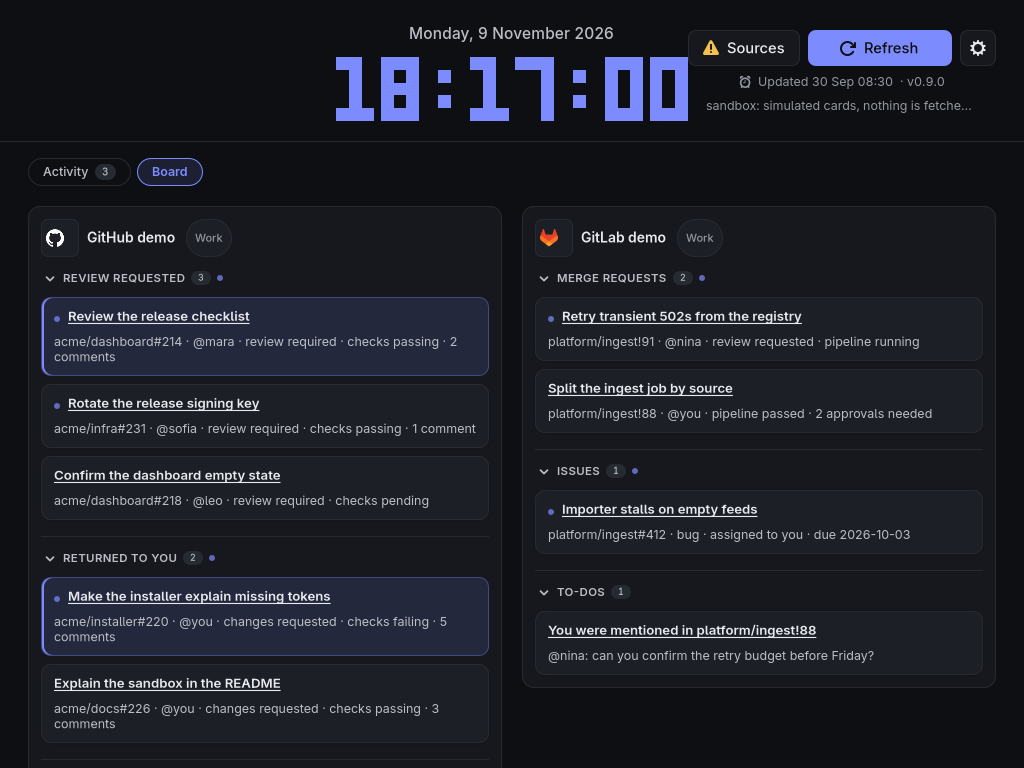
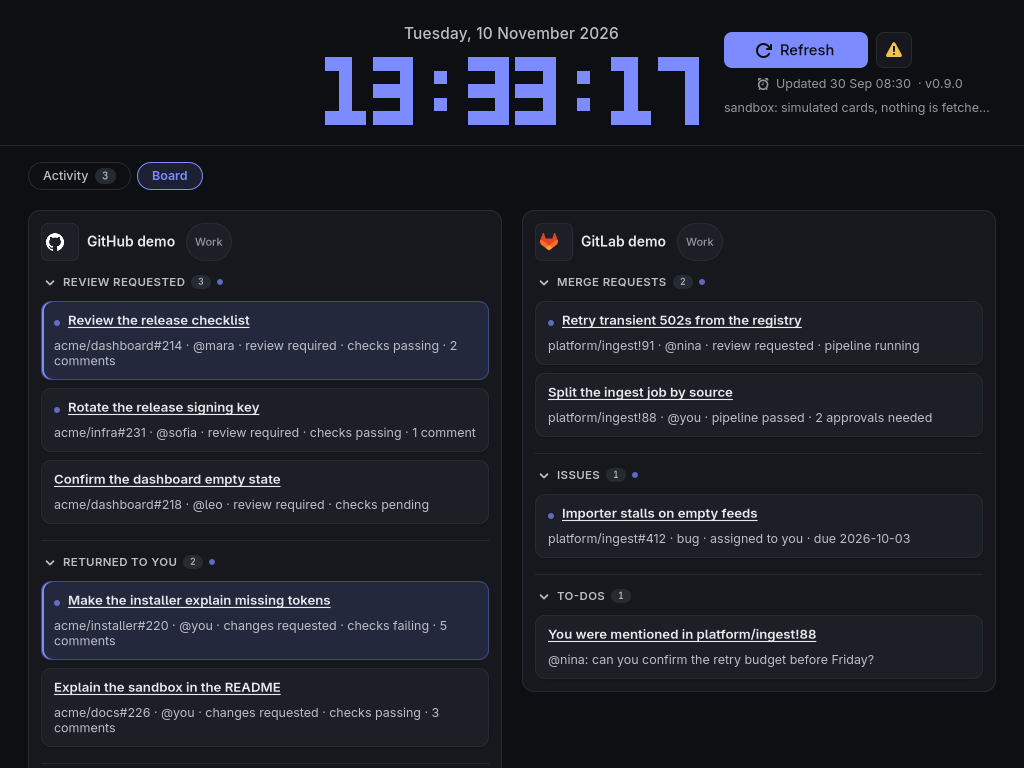
docs: keys on the cards only, Tab, the sources in Settings
The README, the operations guide and DESIGN.md say that the keyboard
focus goes to the cards and nowhere else on the page, that the arrows
move between them from anywhere and Tab switches tabs, that the focus
ring is the text colour, and that the sources head Settings, with the
gear's warning in place of the Sources button; the install guide sends
config errors to Settings. The operations guide explains the restart
note, AGENTS.md says how a new widget on the page stays out of the
focus, and the changelog's Unreleased section gains the entries. The
pictures are taken again without the Sources button, and its own
picture is gone, Settings showing the sources now.

diff --git a/docs/operations.md b/docs/operations.md
@@ -131,9 +131,9 @@ It shows events that are not over yet, starting within 30 days, at most 25, soon
 
 ## The Window
 
-`tasks-pending` opens the window. It reads the dashboard from the daemon at `http://127.0.0.1:61000` (`--daemon` for another address); when nothing answers there, it starts the sources itself on a loopback port of its own (`--no-daemon` does that on purpose) and the line under the controls says so. `tasks-pending sandbox` opens it over simulated cards and a sample weather, with nothing fetched: every kind of source on two boards, one source degraded on purpose, three cards already along the stages of the Activity and two todos written down in Picked; `--screenshot <file>` pictures it and closes, and `--scene` picks what the picture shows (`activity`, the default, `light`, `omarchy` (a made-up Omarchy theme), `board`, `sources`, `settings`, `snoozed`, `todo` or `keys`).
+`tasks-pending` opens the window. It reads the dashboard from the daemon at `http://127.0.0.1:61000` (`--daemon` for another address); when nothing answers there, it starts the sources itself on a loopback port of its own (`--no-daemon` does that on purpose) and the line under the controls says so. `tasks-pending sandbox` opens it over simulated cards and a sample weather, with nothing fetched: every kind of source on two boards, one source degraded on purpose, three cards already along the stages of the Activity and two todos written down in Picked; `--screenshot <file>` pictures it and closes, and `--scene` picks what the picture shows (`activity`, the default, `light`, `omarchy` (a made-up Omarchy theme), `board`, `settings`, `snoozed`, `todo` or `keys`).
 
-A big clock sits at the top: the date, then the local time as `HH:MM:SS` in block digits (the "bricks" font of clock-tui), redrawn each second on its own. Next to it are the **Sources**, **Refresh** and settings (gear) buttons, with the time of the last data fetch and the running version (e.g. `v0.6.0`) below them, then `· N snoozed` while cards are snoozed and `· vX.Y.Z available` when the daemon has seen a newer release. There is no header bar: the window is the dashboard.
+A big clock sits at the top: the date, then the local time as `HH:MM:SS` in block digits (the "bricks" font of clock-tui), redrawn each second on its own. Next to it are the **Refresh** and settings (gear) buttons, with the time of the last data fetch and the running version (e.g. `v0.6.0`) below them, then `· N snoozed` while cards are snoozed and `· vX.Y.Z available` when the daemon has seen a newer release. When TasksPending is upgraded while its window runs, the window keeps running the old version, and every launch brings that one back up: the line then says `· restart to update`, and quitting (**Ctrl+Q**) and opening it again runs the new one. There is no header bar: the window is the dashboard.
 
 On Omarchy, a small weather widget sits on the other side of the clock: an icon for the current condition, the temperature, and below them the place and the wind, as `omarchy-weather-status` reports them (set the place with `omarchy-weather-location --set <name>`). It is optional context: it is not shown at all when weather is unavailable (another system, no network, the commands failing), and it leaves windows narrower than 1440 px, so it never takes room from the clock. The window asks the daemon for it on open, every 10 minutes while shown, and when it comes back from being suspended by the compositor.
 
@@ -147,7 +147,7 @@ o.bind("SUPER + SHIFT + T", "TasksPending drop-down", "tasks-pending toggle")
 
 The drop-down is Hyprland's special workspace `special:tasks-pending`, driven over Hyprland's socket. It needs Omarchy's own shell (Omarchy 4) and Hyprland's Lua config (0.55 or newer); without Hyprland, `tasks-pending toggle` opens the window, or raises it when it is open. A newer TasksPending rewrites the plugin when it starts, so the two keep the same version. The plugin's `command` setting (`tasks-pending` by default) names the program a click runs, for an install outside the `PATH`. `omarchy plugin remove io.github.brunoomariano.tasks-pending` takes the plugin away entirely. The window tells the icon about missed alerts (below, under the card menu) through `$XDG_RUNTIME_DIR/tasks-pending-bar.json`, `{"dot": true, "tooltip": "TasksPending · Alert: <title>"}`, which the plugin watches: it is written when TasksPending starts (nothing missed), when an alert rings with the window away and when the window comes to the front, and removed when TasksPending quits. A TasksPending that was killed or crashed leaves it as it was until the next start. The sandbox and `--screenshot` never read or write Omarchy's settings, nor the icon's file: their switch shows Off and stays so.
 
-Source health is behind the **Sources** button, which opens a dialog with each source's board, status, last fetch and failure reason, plus a config error when the saved config was not reloaded. The button shows a warning icon when any source is degraded or failed, or the config has an error.
+Source health opens **Settings**: each source's board, status, last fetch and failure reason come first, plus a config error when the saved config was not reloaded. The gear turns into a warning icon when any source is degraded or failed, or the config has an error, and its tooltip says a source needs a look.
 
 Every card has a three-dot button (shown when the pointer is on the card; the keyboard reaches it too) that opens its menu, which holds every action. **Send to Activity** marks the card as in progress: it stays in its stack, highlighted, and appears on the **Activity** tab; **Remove from Activity** unmarks it. Activity is a board of three stages, **Picked**, **In Progress** and **Done / to mark**: a card arrives at Picked, and its menu on that tab moves it to the next stage or back. Activity shows every marked card whatever the board filter and hidden items, with no limit, and when nothing is marked it says so with a link to the Board. Marks are kept by the daemon in `$XDG_STATE_HOME/tasks-pending/marks.json` (next to the cache), so they survive restarts. A mark is dropped on its own when its card is gone after a clean refresh of its source that finished after the card was marked (the item was done elsewhere); while the source is failing, refreshing or showing old data, the mark is kept, and so is the mark of a card that a stack's `exclude` patterns hide. Marks of a source that is not on the dashboard (switched off, or absent from the config in use) are kept for a month, so they are back when the source is. Deleting `marks.json` clears every mark. The stage is the window's own choice: it is kept in `app-view.json` beside the other choices, and dropped when the mark goes, so a card marked again starts at Picked. The tab is not remembered: the window always opens on Activity.
 
@@ -157,7 +157,7 @@ On the Board, the menu's **Snooze** entry offers **1 hour**, **Tomorrow** (the n
 
 Todos, for things that come from no source, live in the Activity, not on the Board. **New** at the end of the Picked column's header opens a dialog for a title and optional details, and the todo lands in Picked, after the marked cards, with `Todo` where a card names its source. Its menu moves it between the stages and sets an alert like any card's, and has **Edit** and **Delete** where a card has Send to or Remove from Activity and Snooze: a todo has nowhere else to be, so Delete is how it goes. Todos are kept in `$XDG_DATA_HOME/tasks-pending/todos.sqlite3` (`~/.local/share/tasks-pending/todos.sqlite3` when it is unset), a SQLite file only you can read (the file is made 0600, and a folder made for it 0700), so they are back as you left them after a restart; alerts still last only while TasksPending runs, hidden or minimized included, which the dialog says. A file there that is not TasksPending's, or not a database, is left untouched, and one written by a newer TasksPending is read but never written; either way, and when a save fails, the Activity says the todos are not being saved, and why, and changes last until TasksPending quits. Delete the file to start with none. The sandbox and `--screenshot` keep their todos in memory and never open the file.
 
-What the mouse does has a key as well, and **?** or **Ctrl+K** opens the list of keys, searched by what a key does: the arrows pick one, Enter runs it, Esc (or Backspace with nothing typed) closes the list. In the window, **n** writes down a todo, **r** or **F5** refreshes (only when the button would), **s** opens Sources, **Ctrl+,** opens Settings, and **1** and **2** bring the Activity and the Board to the front. Between cards, **j** and **k** move down and up a column (a stage of the Activity, a group of the Board), **h** and **l** to the next column with cards on either side, **g** and **G** to the first and last card of the column; with no card in focus, they go to the first one. On a card the arrows do the same, and elsewhere they move the focus as usual. On the card in focus, **Enter** sends it to the Activity or takes it back (on the card itself: on its link or menu button, Enter is theirs), **Shift+→** and **Shift+←** (or **L** and **H**) move it along the stages, **o** opens its link, **e** edits a todo, **Ctrl+.** opens its menu, **a** opens the alert choices and **z** the snooze choices, and **Delete**, pressed twice within six seconds, deletes a todo. A key held down acts once, and does not type into a dialog it opened; only the moves repeat. A key does only what the card's menu offers, and the menu names the keys of the stage moves and of Edit. The keys stand aside while a dialog or a menu is open, or while you type. A click on a card gives it the focus, so the keys go on from the card you clicked, and after a redraw, or a dialog closing, the focus stays with the card, wherever it went.
+What the mouse does has a key as well, and **?** or **Ctrl+K** opens the list of keys, searched by what a key does: the arrows pick one, Enter runs it, Esc (or Backspace with nothing typed) closes the list. In the window, **n** writes down a todo, **r** or **F5** refreshes (only when the button would), **Ctrl+,** opens Settings, the sources included, **Tab** (or **Shift+Tab**) switches between the Activity and the Board, and **1** and **2** bring either to the front. The keyboard focus goes to the cards and nowhere else on the page: not to the buttons, the tabs, a stack's header, an empty stack or a card's link and menu button, which the mouse still clicks. **j** and **k**, or **↓** and **↑**, move down and up a column (a stage of the Activity, a group of the Board), **h** and **l**, or **←** and **→**, to the next column with cards on either side, **g** and **G** to the first and last card of the column; with no card in focus, they go to the first one. On the card in focus, **Enter** sends it to the Activity or takes it back, **Shift+→** and **Shift+←** (or **L** and **H**) move it along the stages, **o** opens its link, **e** edits a todo, **Ctrl+.** opens its menu, **a** opens the alert choices and **z** the snooze choices, and **Delete**, pressed twice within six seconds, deletes a todo. A key held down acts once, and does not type into a dialog it opened; only the moves repeat. A key does only what the card's menu offers, and the menu names the keys of the stage moves and of Edit. The keys stand aside while a dialog or a menu is open, or while you type. A click on a card gives it the focus, so the keys go on from the card you clicked, and after a redraw, a dialog or the card's menu closing, the focus stays with the card, wherever it went. The card in focus wears a ring in the text colour, never the accent, which marks the picked cards and the open tab.
 
 A small dot before a card's title means the item changed since you last looked, and the same dot after a stack's count means the stack holds such a card (also when it is collapsed or the card is behind "Show more"). There is no count and no label. "Looking" is doing something in the window: a click, a key, scrolling. Opening the window counts; the pointer merely crossing it, or the window taking focus under it, does not, so the dots are not cleared by accident. When you come back after 10 minutes or more without activity, the dots show what changed since your previous activity; cards that change while you keep using the window get a dot too, and all of them clear the next time you return. A change counts from the moment the dashboard fetched it: an item that changed just before you left, but that its source only refreshed after, is flagged on your return, because it was never on screen. The daemon keeps these times in `$XDG_STATE_HOME/tasks-pending/looks.json`. Activity is reported at most once a minute.
 
@@ -194,7 +194,7 @@ Tokens are read from the environment by each source, never from the config file.
 
 Every source also takes `refresh_seconds` and `timeout_seconds` (overriding the global ones). Every provider (GitHub, GitLab, Jira, Linear, Plane, Google Calendar, iCal, Todoist) shows its logo from Dashboard Icons by default; GitHub and Linear also change to their light marks in dark themes. Set `icon` / `icon_dark` to replace a logo with image URLs (http or https), with `icon_dark` used on dark themes. [Dashboard Icons](https://dashboardicons.com) has logos for most tools, served as `https://cdn.jsdelivr.net/gh/homarr-labs/dashboard-icons/svg/<name>.svg` (`github`, `github-light`, `plane`, `todoist`, `google-calendar`, `ical`). The window fetches them from that host, so it learns your IP address and which icons you use.
 
-Edits are picked up while running: the daemon checks the file every 2 seconds, and a manual refresh (the Refresh button) also reloads it first. Sources are rebuilt only when the file's text changed, with the cache keeping their cards on screen meanwhile. A file that fails to load keeps the previous config running and shows the error in the Sources dialog. Environment variables are read at startup; changing them still needs a restart.
+Edits are picked up while running: the daemon checks the file every 2 seconds, and a manual refresh (the Refresh button) also reloads it first. Sources are rebuilt only when the file's text changed, with the cache keeping their cards on screen meanwhile. A file that fails to load keeps the previous config running and shows the error at the top of Settings. Environment variables are read at startup; changing them still needs a restart.
 
 ## GitHub Source
 

diff --git a/AGENTS.md b/AGENTS.md
@@ -22,7 +22,7 @@ Use the vocabulary in `crates/pending-core`: `DashboardSnapshot`, `Board` (a fil
 - `make up`: run the daemon on `127.0.0.1:61000`.
 - `make app`: open the window (over the daemon when it runs, else over the sources).
 - `make sandbox`: open the window over deterministic simulated cards, without reading config, credentials, cache, or external sources.
-- `make screenshots`: regenerate the README pictures in `docs/assets` from the sandbox window (`tasks-pending sandbox --screenshot <file> --scene activity|light|omarchy|board|sources|settings|snoozed|todo|keys`); run it after a change that alters how the window looks. It needs a display that is drawing frames (not one on DPMS off). Without one, GTK's Broadway backend works headless at 1024×768: `gtk4-broadwayd :5 &` then `GDK_BACKEND=broadway BROADWAY_DISPLAY=:5 make screenshots`.
+- `make screenshots`: regenerate the README pictures in `docs/assets` from the sandbox window (`tasks-pending sandbox --screenshot <file> --scene activity|light|omarchy|board|settings|snoozed|todo|keys`); run it after a change that alters how the window looks. It needs a display that is drawing frames (not one on DPMS off). Without one, GTK's Broadway backend works headless at 1024×768: `gtk4-broadwayd :5 &` then `GDK_BACKEND=broadway BROADWAY_DISPLAY=:5 make screenshots`.
 - `scripts/dropdown-picture.sh <file>`: picture the sandbox dropped down on a live Omarchy desktop, through the sandbox's own `toggle` action over D-Bus. It goes to an empty workspace, pictures the focused monitor with `grim` and comes back. It needs Hyprland, Omarchy's shell with TasksPending's icon on the bar, and a `tasks-pending` with `toggle` (`TASKS_PENDING_BIN` names another), so CI cannot run it. The README's first picture comes from it, with the pointer painted out; `tasks-pending-bar.png` is cropped from that picture, the icon ringed.
 - `make changelog-check`: check `CHANGELOG.md`'s sections (and run that check's own harness, `scripts/test-check-changelog.sh`).
 - `make install-test` / `make release-installer-test` / `make release-assets-test`: validate the source installer, the public release installer and its stable download aliases without network access or changes to the machine.
@@ -52,7 +52,7 @@ Visual style: simple and quiet, described in `crates/pending-app/DESIGN.md` (rea
 
 Omarchy's bar: `crates/pending-app/src/omarchy_bar.rs` carries the shell plugin in `src/omarchy-bar/` (its manifest takes the crate's version) and writes it under `~/.config/omarchy/plugins/` when Settings turns it on (and at startup over a copy already there, so it follows upgrades); `dropdown.rs` decides each `tasks-pending toggle`, each close and each Esc from what Hyprland reports over its socket (a window in `special:tasks-pending` is dropped down) and drives it with Lua dispatches, which it tests against a stand-in socket. The window tells the icon what to show through `tasks-pending-bar.json` right in `$XDG_RUNTIME_DIR` (Quickshell does not see a file appear in a folder that did not exist when it started watching) (`omarchy_bar::signal` and `tell`: a dot while alerts rang with the window away, `alert::Missed`), which the plugin watches with Quickshell's `FileView`; a change to that file's shape changes both. A change to the plugin is checked by `omarchy-plugin-validate` in the tests where Omarchy is installed. The sandbox and `--screenshot` never touch Omarchy's or Hyprland's config.
 
-Keys: `keymap.rs` is the one table of commands, what each is called and its keys, with what each key needs (nothing, a card in focus, or the card itself). The key handler (`ui/keys.rs`, on the window in the capture phase, standing aside while a dialog or a menu is open or the focus is in a text field), the keys dialog, the tooltips and the card menu's hints all read it. Moving between cards is `nav.rs` over the cards the page registers by column as it draws them (`Ctx::cards`). A card's key does what its menu offers (`present::key_action`), so no key reaches an action the menu would not show. Esc and Ctrl+Q keep their own handlers, and the table only lists them. What the window does with a key going down is `keymap::verdict`, a plain function over the keys held (`nav::Held`), tested without a window: held down, only the moves repeat (`Binding::repeats`), a key whose press ran something goes nowhere until it comes up (not into the dialog it opened either), and Esc's repeats go nowhere. Every dialog goes through `dialogs::show_over`, which gives the focus back to the card that had it; a direct `present()` loses that. The card menu names a key only through `keymap::menu_hint`: GTK turns a menu entry's `accel` into a live shortcut while the menu is open, so only the stage moves and Edit are named there, never Enter or Delete (one press would delete).
+Keys: `keymap.rs` is the one table of commands, what each is called and its keys, with what each key needs (nothing, a card in focus, or the card itself). The key handler (`ui/keys.rs`, on the window in the capture phase, standing aside while a dialog or a menu is open or the focus is in a text field), the keys dialog, the tooltips and the card menu's hints all read it. Moving between cards is `nav.rs` over the cards the page registers by column as it draws them (`Ctx::cards`). A card's key does what its menu offers (`present::key_action`), so no key reaches an action the menu would not show. Esc and Ctrl+Q keep their own handlers, and the table only lists them. What the window does with a key going down is `keymap::verdict`, a plain function over the keys held (`nav::Held`), tested without a window: held down, only the moves repeat (`Binding::repeats`), a key whose press ran something goes nowhere until it comes up (not into the dialog it opened either), and Esc's repeats go nowhere. On the page only the cards take the keyboard focus: Tab (the tabs) and the arrows (the cards) belong to the handler, and a button, tab or header added to the page is built `focusable(false)`, or the focus and Enter land on it. Every dialog goes through `dialogs::show_over`, which gives the focus back to the card that had it; a direct `present()` loses that. The card menu names a key only through `keymap::menu_hint`: GTK turns a menu entry's `accel` into a live shortcut while the menu is open, so only the stage moves and Edit are named there, never Enter or Delete (one press would delete).
 
 Todos: `todo_store.rs` keeps them in `todos.sqlite3` in the data dir (`pending_runtime::config::data_dir`), through `rusqlite` with SQLite bundled; `session::Todos` writes the whole list on every change, so a save that works makes good one that failed. The file carries an `application_id` and a `user_version`: a schema change is a new entry at the end of `MIGRATIONS`, never an edit to one that shipped, and a file from a newer schema is read and never written. `scripts/install.sh --uninstall` removes only the files it installed from that folder. The sandbox and `--screenshot` keep their todos in memory. Alerts are not saved.
 

diff --git a/crates/pending-app/DESIGN.md b/crates/pending-app/DESIGN.md
@@ -104,8 +104,8 @@ Dark, the default:
 - Card hover (#23272e): a card under the pointer.
 - Border (#262a31): every 1px line; Strong border (#343a43) under the pointer.
 - Text (#e7e9ee), Text 2 (#babdc5) for bodies and stack names, Text 3 (#9196a0) for captions and idle controls.
-- Accent (#7c8cff): the clock, the changed dot, the picked card, the tab that is open, the primary button, focus rings. Nowhere else. Text on it is the page colour (#0e0f12), and the count on the open tab is a lighter accent (#8b9aff).
-- OK (#4ccb8f), Warning (#f2c14e), Danger (#f2667a): source status, attention on the Sources button, notices. Cards never carry them.
+- Accent (#7c8cff): the clock, the changed dot, the picked card, the tab that is open, the primary button. Nowhere else: not the keyboard focus, which is the text colour. Text on it is the page colour (#0e0f12), and the count on the open tab is a lighter accent (#8b9aff).
+- OK (#4ccb8f), Warning (#f2c14e), Danger (#f2667a): source status, the gear's warning while a source needs a look, notices. Cards never carry them.
 
 Light, when the system asks: Page (#f6f7f9), Group (#ffffff), Card (#f1f3f6), Card hover (#e8ebf0), Border (#e4e7ec), Strong border (#d3d8e0), Text (#15181e), Text 2 (#40444d), Text 3 (#626671), Accent (#4f5ee8; #4c5ade as text, #404cbb for the count on the open tab), white on it, OK (#10774e), Warning (#8d6004), Danger (#c03045).
 
@@ -135,15 +135,15 @@ Soft corners: 12px for groups and stage columns, dialog rows at 8px, cards at 10
 
 ## Components
 
-- Card: card surface, 1px border, 10px radius, 10/12px padding; title (a link when the item has one, same colour, accent on hover), two lines of body in Text 2, and one three-dot button at the end that appears on hover and stays while its menu is open. The menu holds every action: the stage moves (on Activity), send to or remove from Activity, Snooze (on the Board), Alert me about, Cancel the alert, and for a todo Edit and Delete in place of the Activity entry and Snooze. Picked: accent tint and the inset accent line. Changed: a dot before the title. Alert: a caption line in Text 2 with an alarm icon and the time. Keyboard focus, when the keyboard put it there: the controls' ring (2px of accent at 60%, 2px out) and the three dots shown. The stage moves and Edit show their key at the end of the menu entry, and the other entries none: GTK makes a key shown there a shortcut while the menu is open, and Delete would delete on one press.
+- Card: card surface, 1px border, 10px radius, 10/12px padding; title (a link when the item has one, same colour, accent on hover), two lines of body in Text 2, and one three-dot button at the end that appears on hover and stays while its menu is open. The menu holds every action: the stage moves (on Activity), send to or remove from Activity, Snooze (on the Board), Alert me about, Cancel the alert, and for a todo Edit and Delete in place of the Activity entry and Snooze. Picked: accent tint and the inset accent line. Changed: a dot before the title. Alert: a caption line in Text 2 with an alarm icon and the time. Keyboard focus, when the keyboard put it there: a 2px ring in the text colour, 2px out, never the accent, so it does not read as picked; the three dots shown. On the page only the cards take the focus. The stage moves and Edit show their key at the end of the menu entry, and the other entries none: GTK makes a key shown there a shortcut while the menu is open, and Delete would delete on one press.
 - Tabs: pill buttons on the page with a 1px border; the open one is filled with the accent tint and outlined with the accent. Activity carries its count in a pill.
 - Stage: a group-like box with the stack label style for its name and a count pill; an empty one says so in Text 3.
 - Todo: a card in the Activity named after no source ("Todo" under it, no logo), written down with the New control at the end of Picked's header; its dialog is two entries, the note on what is kept in Text 3, Cancel and the one primary button. While the todos cannot be saved, the Activity opens with a stale notice saying so, over the stages.
 - Stack header: a flat button with a chevron (rotated when collapsed), the upper-case name, a count pill, and the dot when a card inside changed.
 - Group: group surface, 1px border, 12px radius; the logo sits in a 28px tile on the card surface.
-- Controls: 34px buttons with a 1px border on the group surface; Refresh is the one filled with accent, and as wide as its longest label ("Refreshing…") whatever it says, its icon and label centred, so nothing beside it moves; the gear carries a 7px accent dot while a filter is on.
+- Controls: 34px buttons with a 1px border on the group surface; Refresh is the one filled with accent, and as wide as its longest label ("Refreshing…") whatever it says, its icon and label centred, so nothing beside it moves; the gear carries a 7px accent dot while a filter is on, and turns into the warning icon, in Warning, while a source needs a look. There is no Sources button: the sources head Settings.
 - Notices: a bordered box tinted 8% with the state colour (warning for stale data, danger for no data).
-- Status chip (Sources dialog): the state colour as text on a 10% tint with a 25% ring, pill shaped.
+- Status chip (the sources in Settings): the state colour as text on a 10% tint with a 25% ring, pill shaped.
 - Dialogs: group surface, a flat header bar, 20px side padding, rows as bordered boxes; filters as pills that fill with the accent tint when active (Settings: Board, Auto-refresh, Theme, Omarchy bar on Omarchy, then the show or hide switches; under the themes, while following Omarchy, one line in Text 3 names the theme or says why there is none; under Omarchy bar, one line in Text 3 says what the icon does, what is under way or what Omarchy answered); switches in libadwaita's own style with the accent.
 - Keys dialog: a dialog with a search entry over the keys, by section under the label style (Window, Moving between cards, The card in focus) while nothing is typed and best match first once something is; each row is what it does, then its keys as keycaps (1px Border strong, 6px radius, Surface 2, Text 2 at 0.85em); the row picked is tinted 16% with the accent, 8px radius.
 - Empty state: a dashed 1px border, 8px radius, a check icon and "Nothing pending." in Text 3.

diff --git a/docs/install.md b/docs/install.md
@@ -80,7 +80,7 @@ refresh_seconds = 300        # how often each source refreshes
 timeout_seconds = 60         # a slower refresh counts as a failure
 
 [[sources]]
-name = "agenda"              # unique; shown in the window and the Sources dialog
+name = "agenda"              # unique; shown in the window and in Settings
 kind = "google"              # github, gitlab, jira, linear, plane, google, ical, todoist, sample
 board = "Personal"           # area: the board filter in Settings
 icon = "https://cdn.jsdelivr.net/gh/homarr-labs/dashboard-icons/svg/google-calendar.svg"
@@ -101,7 +101,7 @@ timeout_seconds = 180        # per-source override (Plane is slow)
   state = ["In Review"]
 ```
 
-Every key, per kind, is in [`config.example.toml`](../config.example.toml) and [operations.md](operations.md). Saved changes are picked up within a couple of seconds, without restarting; a file with an error is reported in the **Sources** dialog while the previous config keeps running. Icons can come from [Dashboard Icons](https://dashboardicons.com) (`icon`, plus `icon_dark` for dark themes).
+Every key, per kind, is in [`config.example.toml`](../config.example.toml) and [operations.md](operations.md). Saved changes are picked up within a couple of seconds, without restarting; a file with an error is reported at the top of **Settings** while the previous config keeps running. Icons can come from [Dashboard Icons](https://dashboardicons.com) (`icon`, plus `icon_dark` for dark themes).
 
 ## 3. Tokens
 
@@ -186,5 +186,5 @@ The last successful data of each source is cached in `$XDG_STATE_HOME/tasks-pend
 - **GitHub works in the window without a daemon but not with one**: `gh` is not on the service's PATH; set `GITHUB_TOKEN` in the env file.
 - **No weather beside the clock on Omarchy**: the widget needs `omarchy-weather-status` to work for the daemon. Run it in a terminal first: it fails when offline or when the place is unknown (`omarchy-weather-location --set <name>`). The systemd service's PATH includes `/usr/share/omarchy/bin` and `~/.local/share/omarchy/bin`; a service file installed before that keeps the old PATH until you install again. A failure is retried after a minute, and the widget is hidden in windows narrower than 1440 px.
 - **Google Calendar fails in the daemon**: the service must run inside your desktop session (it does when started with `systemctl --user` after login).
-- **Config errors**: the **Sources** dialog shows the message, naming the file, source and stack.
+- **Config errors**: the top of **Settings** shows the message, naming the file, source and stack.
 - **`tasks-pending upgrade` refuses**: it only upgrades the release the installer unpacked outside Arch, `~/.local/lib/tasks-pending/bin/tasks-pending`. On Arch the installer put in the package, which upgrades by running the install command again (the refusal prints it) or with `sudo pacman -U`; a source install upgrades with `make deploy`.

diff --git a/README.md b/README.md
@@ -18,7 +18,7 @@ A click on the icon (ringed) drops the window down, and the next sends it away. 
 - **What to do next.** GitHub pull requests are split by next action (review requested, returned to you, ready to merge, not approved yet, drafts), with review state, checks and comment counts on the card.
 - **Activity.** Send the cards you are working on to the Activity tab, a board of three stages: Picked, In Progress, Done / to mark. The window opens on it; the Board tab holds the groups, where the picked cards stay highlighted.
 - **One menu per card.** Every action sits behind a three-dot button on the card: send to Activity, move between stages, snooze, alert, and for a todo edit and delete.
-- **The keyboard, too.** What the mouse does has a key, and the mouse keeps working: **?** or **Ctrl+K** lists the keys, searched by what each does. **j**/**k** and **h**/**l** (or the arrows on a card) move between cards, **Enter** sends one to the Activity or takes it back, **Shift+→** and **Shift+←** move it along the stages, **o** opens its link and **Ctrl+.** its menu.
+- **The keyboard, too.** What the mouse does has a key, and the mouse keeps working: **?** or **Ctrl+K** lists the keys, searched by what each does. **j**/**k** and **h**/**l**, or the arrows, move between the cards, and only the cards, **Tab** switches between the Activity and the Board, **Enter** sends one to the Activity or takes it back, **Shift+→** and **Shift+←** move it along the stages, **o** opens its link and **Ctrl+.** its menu.
 - **Snooze.** Hide a card for an hour, until tomorrow, until next week, or until it changes. It always comes back when the item changes, and nothing is written to the provider.
 - **Alerts.** Ask to be alerted about a card in 15 minutes, 30 minutes, an hour or three hours: when the time comes, a desktop notification names it, and clicking it brings the window up.
 - **Todos.** Write down something that comes from no source: **New** in the Picked column of the Activity puts it there, it moves through the stages like the other cards, and it is still there after a restart.
@@ -34,11 +34,7 @@ A click on the icon (ringed) drops the window down, and the next sends it away. 
 
 <p align="center">
   <img src="docs/assets/tasks-pending-keys.png" alt="The Keys dialog: a search by what a key does over the keys of the window, of moving between cards and of the card in focus" width="49%">
-</p>
-
-<p align="center">
-  <img src="docs/assets/tasks-pending-sources.png" alt="The Sources dialog: each source with its board, status and last fetch" width="49%">
-  <img src="docs/assets/tasks-pending-settings.png" alt="The Settings dialog: board filter, auto-refresh, theme and show or hide switches" width="49%">
+  <img src="docs/assets/tasks-pending-settings.png" alt="The Settings dialog: the sources first, each with its board, status and last fetch, then the board filter" width="49%">
 </p>
 
 <p align="center">

diff --git a/CHANGELOG.md b/CHANGELOG.md
@@ -1,5 +1,16 @@
 # Changelog
 
+## Unreleased
+
+### Changed
+
+- The keyboard moves only between the cards. The arrows do what **h**/**j**/**k**/**l** do from anywhere in the window, and the focus no longer lands on the buttons, the tabs, a stack's header, an empty stack or a card's link and menu button; the mouse clicks them as before. **Tab** (or **Shift+Tab**) switches between the Activity and the Board. The card in focus wears a ring in the text colour, so it no longer looks like a picked card or the open tab.
+- The sources are at the top of Settings, and the Sources button and its **s** key are gone: the gear shows the warning icon while a source needs a look.
+
+### Fixed
+
+- A window still running after an upgrade says `· restart to update` under the controls. Until it quits, every launch brings that old window back up, which is why the keys dialog and the card keys of 0.9.0 seemed missing after upgrading from 0.8.
+
 ## 0.9.0
 
 The keyboard drives the window, with a dialog that lists every key and finds one by what it does, and todos are kept from one run to the next.
